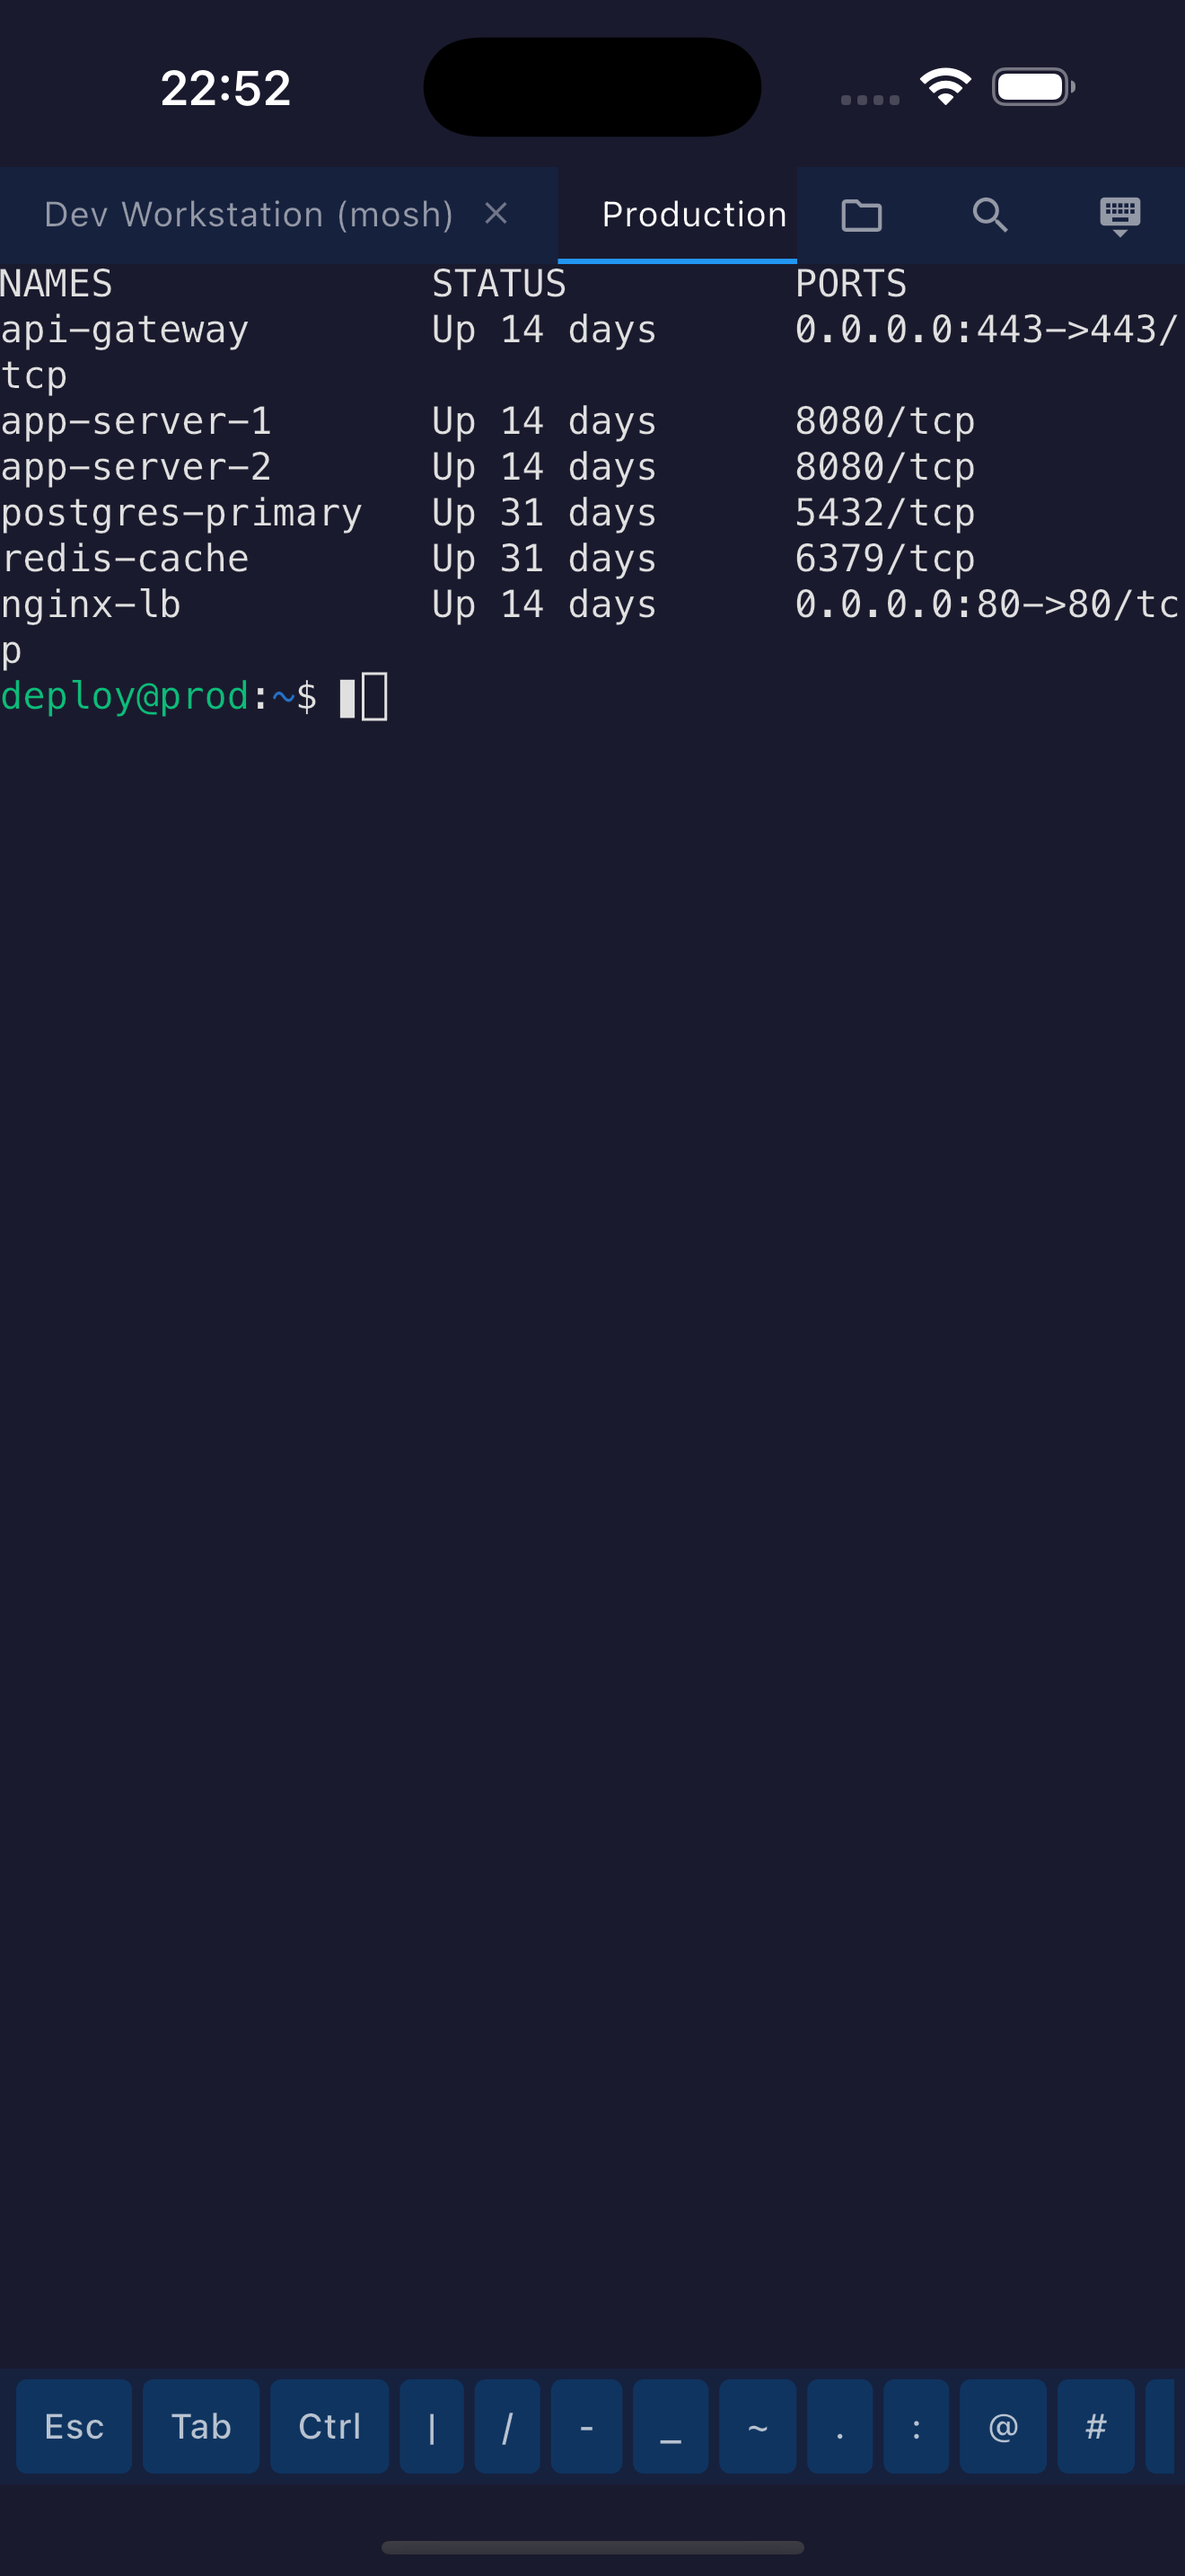
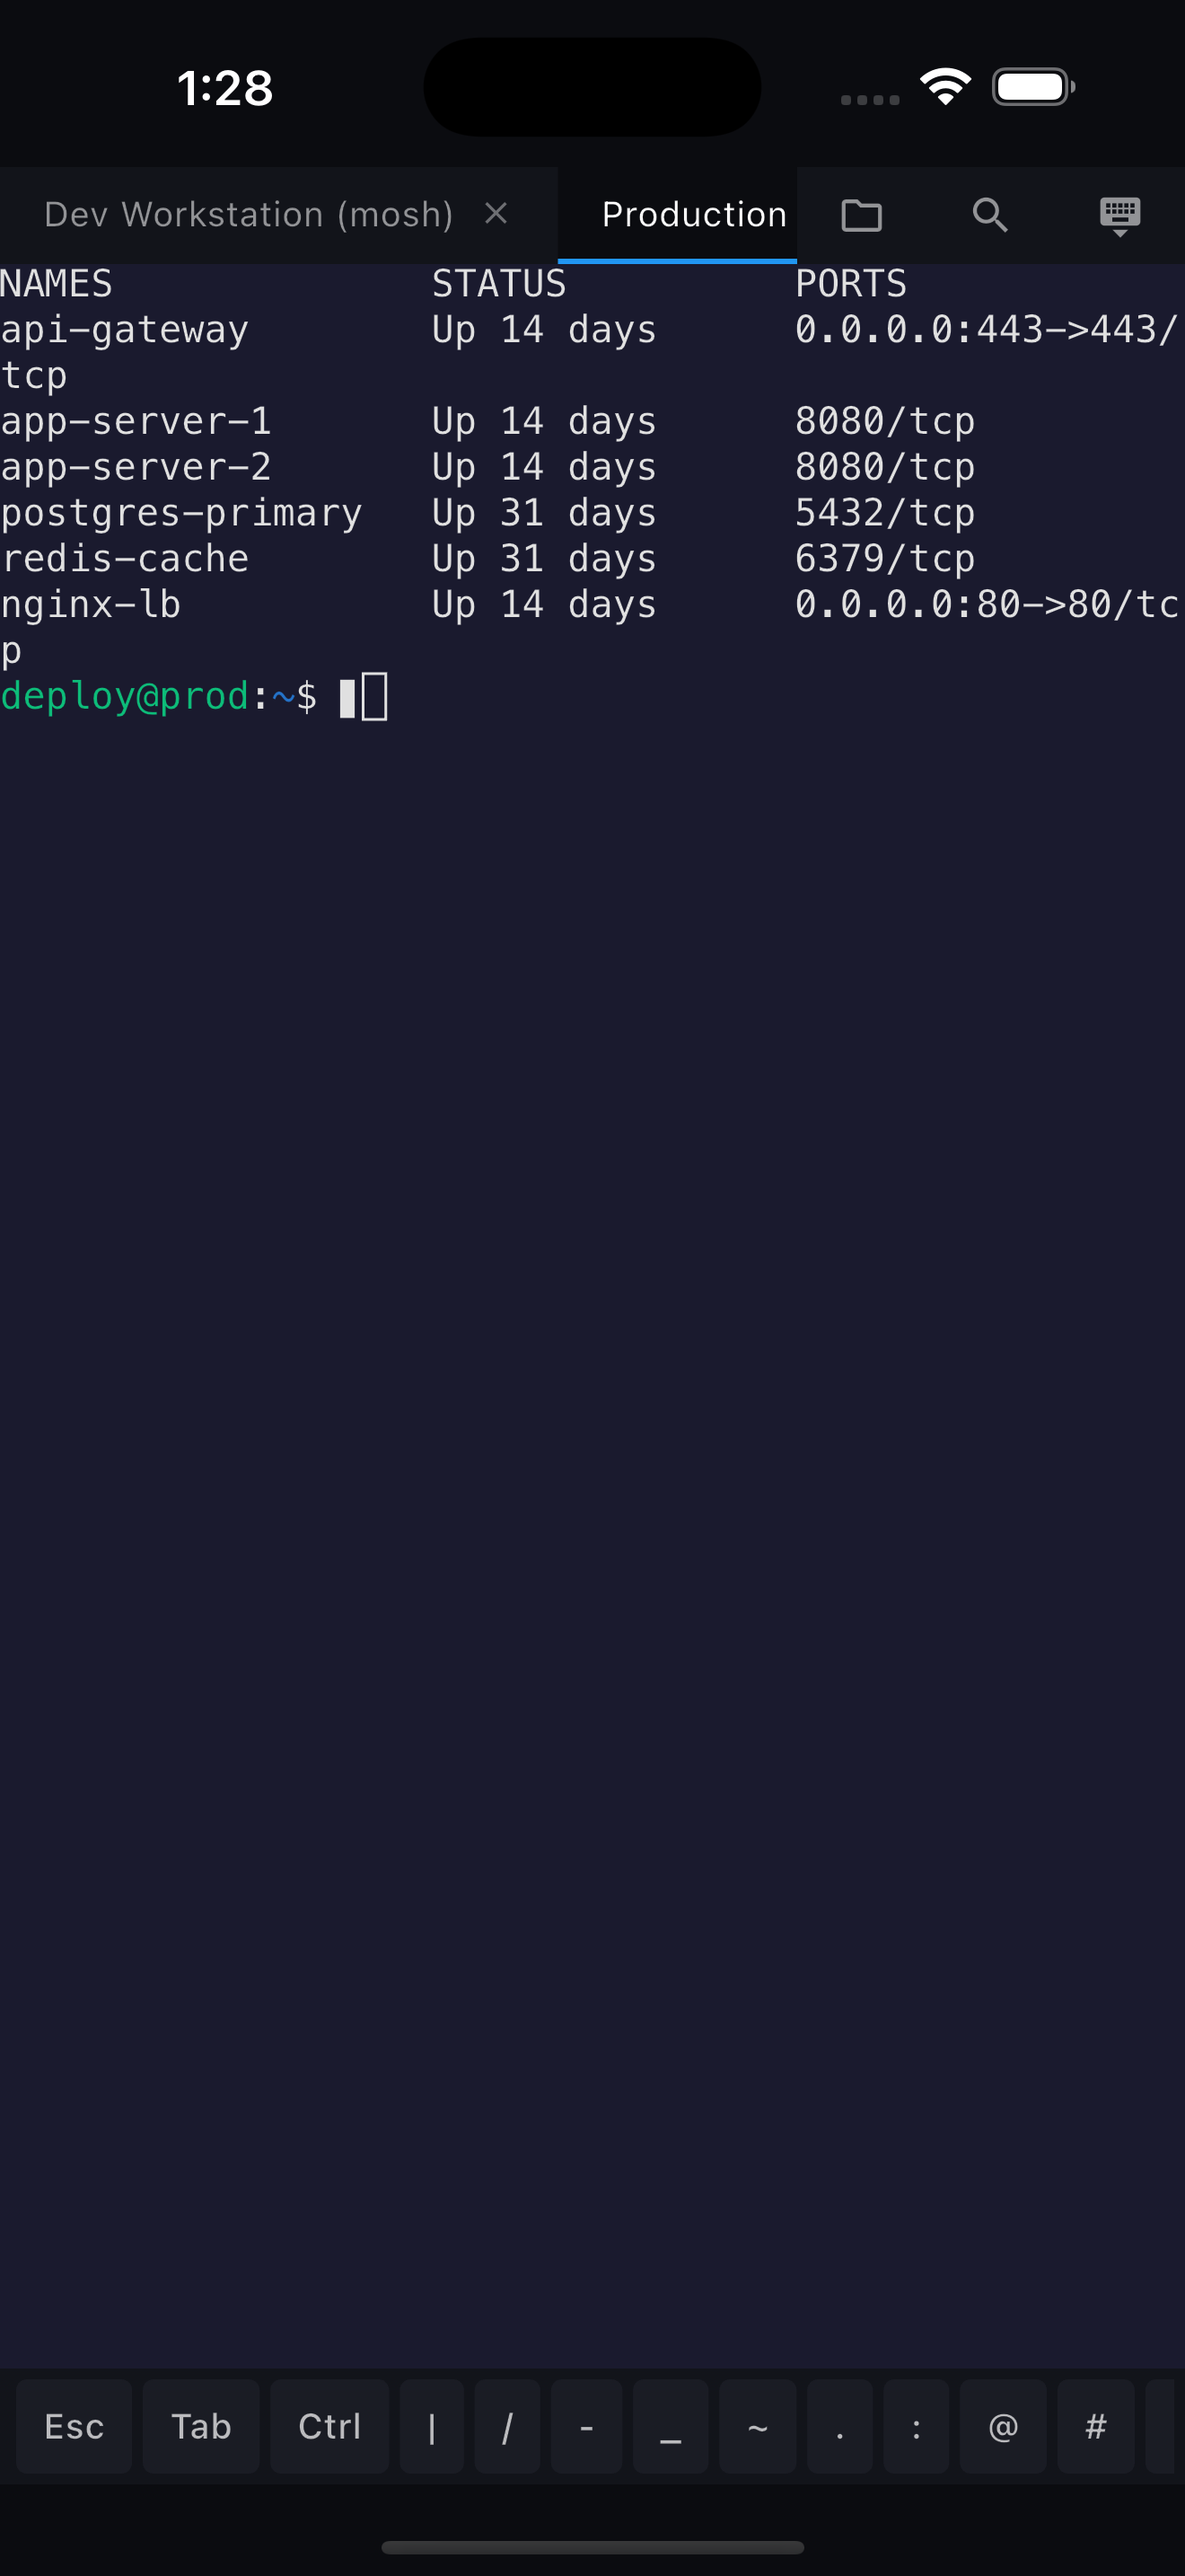
Add demo mode for app store review, update metadata and screenshots
- Demo mode activated by signing in with username "demo"
- Shows mock devices, sessions, and shells without real server
- Update app description with subscription pricing details
- Refresh screenshots for iPhone and iPad
- Add review credentials and notes explaining demo mode

Changed region(s): [[0.0, 0.8999, 1.0, 1.0], [0.0, 0.0, 1.0, 0.1241]]

diff --git a/lib/services/demo_service.dart b/lib/services/demo_service.dart
@@ -1,0 +1,78 @@
+import '../models/account.dart';
+import '../models/device.dart';
+import '../models/shell.dart';
+
+/// Provides mock data when demo mode is active.
+/// Activated by signing in with username "demo".
+class DemoService {
+  static final DemoService _instance = DemoService._();
+  factory DemoService() => _instance;
+  DemoService._();
+
+  bool _active = false;
+
+  bool get isActive => _active;
+
+  void activate() => _active = true;
+  void deactivate() => _active = false;
+
+  UnixShellsAccount get account => UnixShellsAccount(
+        username: 'demo',
+        email: 'demo@unixshells.com',
+        subscriptionStatus: 'active',
+      );
+
+  List<Device> get devices => [
+        Device(
+          name: 'workstation',
+          addedAt: '2025-11-14',
+          status: 'online',
+          online: true,
+          sessions: [
+            DeviceSession(name: 'default', status: 'alive', title: 'htop'),
+            DeviceSession(name: 'dev', status: 'alive', title: 'vim ~/project/main.go'),
+          ],
+        ),
+        Device(
+          name: 'prod-server',
+          addedAt: '2025-12-02',
+          status: 'online',
+          online: true,
+          sessions: [
+            DeviceSession(name: 'default', status: 'alive', title: 'tail -f /var/log/nginx/access.log'),
+          ],
+        ),
+        Device(
+          name: 'raspberry-pi',
+          addedAt: '2026-01-18',
+          status: 'online',
+          online: true,
+          sessions: [
+            DeviceSession(name: 'default', status: 'alive', title: 'monitoring'),
+          ],
+        ),
+      ];
+
+  List<Shell> get shells => [
+        Shell(
+          id: 'shell-demo-1',
+          username: 'demo',
+          plan: 'shell',
+          memMb: 1024,
+          vcpus: 1,
+          diskGb: 10,
+          state: 'running',
+          createdAt: '2026-02-10T08:00:00Z',
+        ),
+        Shell(
+          id: 'shell-demo-2',
+          username: 'demo',
+          plan: 'shell',
+          memMb: 2048,
+          vcpus: 2,
+          diskGb: 20,
+          state: 'running',
+          createdAt: '2026-03-01T12:00:00Z',
+        ),
+      ];
+}

diff --git a/lib/views/account/account_view.dart b/lib/views/account/account_view.dart
@@ -10,6 +10,7 @@ import 'package:url_launcher/url_launcher.dart';
 import '../../models/account.dart';
 import '../../models/device.dart';
 import '../../models/ssh_key.dart';
+import '../../services/demo_service.dart';
 import '../../services/discovery_service.dart';
 import '../../services/key_service.dart';
 import '../../services/relay_api_service.dart';
@@ -67,6 +68,16 @@ class _AccountViewState extends State<AccountView> {
 
   Future<void> _refreshStatus() async {
     if (_account == null) return;
+    final demo = DemoService();
+    if (demo.isActive) {
+      if (mounted) {
+        setState(() {
+          _account = demo.account;
+          _devices = demo.devices;
+        });
+      }
+      return;
+    }
     final api = context.read<RelayApiService>();
     final storage = context.read<StorageService>();
     final messenger = ScaffoldMessenger.of(context);
@@ -358,6 +369,24 @@ class _AccountViewState extends State<AccountView> {
   }
 
   Future<void> _startSignin(String username, String? keyId) async {
+    // Demo mode: skip real auth flow entirely.
+    if (username == 'demo') {
+      setState(() { _busy = true; _busyMessage = 'Signing in...'; });
+      final demo = DemoService();
+      final storage = context.read<StorageService>();
+      demo.activate();
+      await storage.saveAccount(demo.account);
+      await _loadAccount();
+      if (mounted) {
+        context.read<DiscoveryService>().refresh();
+        ScaffoldMessenger.of(context).showSnackBar(
+          const SnackBar(content: Text('Signed in successfully')),
+        );
+        setState(() { _busy = false; _busyMessage = null; });
+      }
+      return;
+    }
+
     setState(() {
       _busy = true;
       _busyMessage = 'Preparing key...';
@@ -651,6 +680,7 @@ class _AccountViewState extends State<AccountView> {
       ),
     );
     if (confirmed != true) return;
+    DemoService().deactivate();
     await storage.deleteAccount();
     if (mounted) context.read<DiscoveryService>().refresh();
     setState(() {

diff --git a/lib/views/shells/shells_view.dart b/lib/views/shells/shells_view.dart
@@ -6,6 +6,7 @@ import 'package:in_app_purchase/in_app_purchase.dart';
 import 'package:provider/provider.dart';
 
 import '../../models/shell.dart';
+import '../../services/demo_service.dart';
 import '../../services/iap_service.dart';
 import '../../services/key_service.dart';
 import '../../services/relay_api_service.dart';
@@ -80,6 +81,11 @@ class _ShellsTabState extends State<ShellsTab> {
   }
 
   Future<void> _refresh() async {
+    final demo = DemoService();
+    if (demo.isActive) {
+      if (mounted) setState(() { _shells = demo.shells; _loading = false; });
+      return;
+    }
     setState(() => _loading = true);
     try {
       final token = await _getAuthToken();

diff --git a/lib/services/discovery_service.dart b/lib/services/discovery_service.dart
@@ -4,6 +4,7 @@ import 'dart:convert';
 import 'package:flutter/foundation.dart';
 
 import '../models/device.dart';
+import 'demo_service.dart';
 import 'key_service.dart';
 import 'relay_api_service.dart';
 import 'storage_service.dart';
@@ -48,6 +49,12 @@ class DiscoveryService extends ChangeNotifier {
   }
 
   Future<void> refresh() async {
+    final demo = DemoService();
+    if (demo.isActive) {
+      _onlineDevices = demo.devices;
+      notifyListeners();
+      return;
+    }
     final account = await _storage.getAccount();
     if (account == null) {
       _onlineDevices = [];
